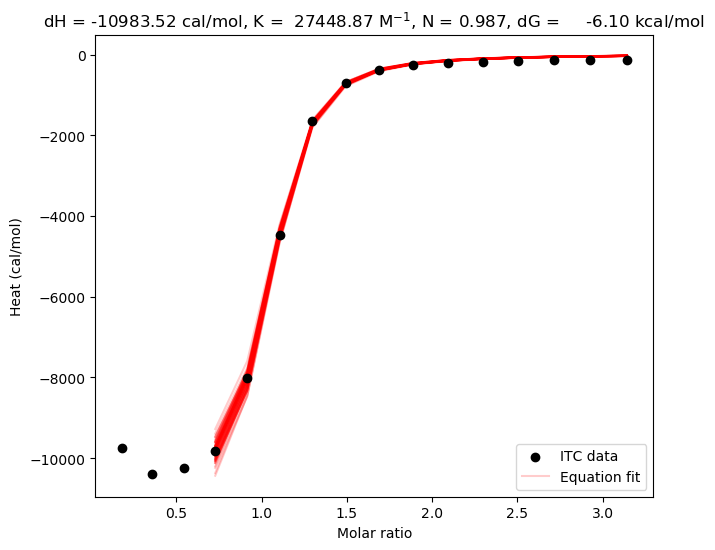
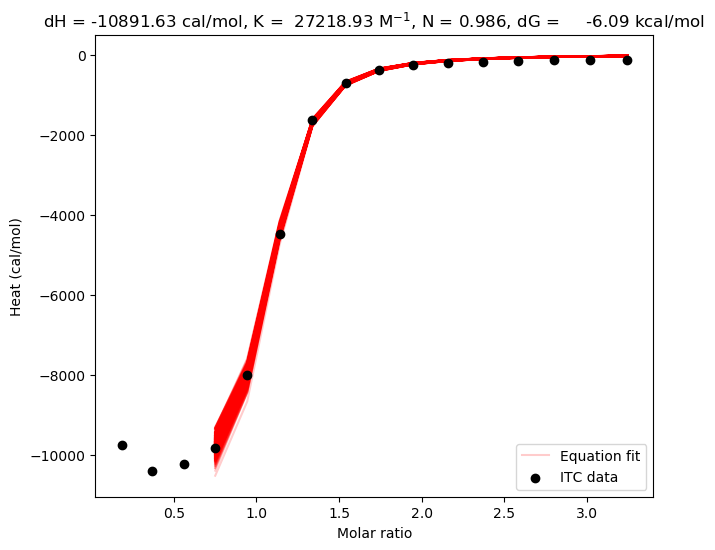
Requested changes

diff --git a/itc_fit.py b/itc_fit.py
@@ -47,7 +47,7 @@ def plot(XM, ITC, vardQ, name, dH, K, N, dG):
     fig, ax = plt.subplots(1, figsize=(6 * 1.2, 6))
     ax.scatter(XM[0, 1:] / XM[1, 1:], ITC, c="k", label="ITC data")
     for index, dQ in enumerate(vardQ.T):
-        ax.errorbar(
+        ax.plot(
             XM[0, 1+skip:] / XM[1, 1+skip:],
             dQ,
             c="r",
@@ -90,7 +90,8 @@ def fit(XMa, dH, K, N):
         )
 
         # Change in heat normalized by amount of injectant
-        # Similar to equation 10
+        # Similar to equation 10 except for the normalization factor dV*X0.
+        # Now the unit is cal/mol; same unit as for exp_dQ_normalized
         dQ[i] = (Q[i] + (dV[i - 1] / V0) * ((Q[i] + Q[i - 1]) / 2) - Q[i - 1]) / (
             dV[i - 1] * X0
         )
@@ -105,7 +106,7 @@ def bootstrap(dQ, dV, temperature, cycles=100):
     # Increase the number of bootstrapping runs by 10 percent. We delete the bad fits afterwards and want to fill up
     # the array so that we always use the same number of bootstrapping cycles
     realcycles = cycles
-    cycles = int(cycles * 1.1)
+    cycles = int(cycles * 1.3)
 
     # All variables which are different between different cycles of the bootstrapping process and stored  start with a
     # leading 'bootstrap_'
@@ -115,10 +116,11 @@ def bootstrap(dQ, dV, temperature, cycles=100):
     bootstrap_N = np.zeros([cycles])
     bootstrap_SS = np.zeros([cycles])
     # We are not fitting the first 'skip' elements. Therefore the array of fitted dQ is smaller. 
-    # As we are only fitting the differences we can ignore the first skip elements in the fitting easily 
+    # As we are only fitting the differences we can ignore the first skip elements in the fitting easily
+    # For every cycle we are storing the full set of calculate dQ values
     bootstrap_dQ = np.zeros([len(dQ)-skip, cycles])
     #print(V0)
-    for n in tqdm(range(cycles)):
+    for cycle in tqdm(range(cycles)):
         # Initial Guesses
         initial_guess = np.zeros(3)  # Guess Array
         initial_guess[0] = -1000.0  # Guess dH
@@ -182,24 +184,24 @@ def bootstrap(dQ, dV, temperature, cycles=100):
         SumSqr = 0.0
         for i in range(skip,len(dQ)):
             SumSqr += (exp_dQ_normalized[i] - fitdQ[i-skip]) ** 2
-            #bootstrap_heat[i-skip, n] = fitdQ[i-skip]
+            #bootstrap_heat[i-skip, cycle] = fitdQ[i-skip]
 
-        bootstrap_dH[n] = dH
-        bootstrap_K[n] = K
-        bootstrap_N[n] = N
-        bootstrap_SS[n] = SumSqr
-        bootstrap_dQ[:, n] = fitdQ
+        bootstrap_dH[cycle] = dH
+        bootstrap_K[cycle] = K
+        bootstrap_N[cycle] = N
+        bootstrap_SS[cycle] = SumSqr
+        bootstrap_dQ[:, cycle] = fitdQ
 
     # Reject all values which are over a threshold; definition is arbitrary.
-    threshold = 1 * bootstrap_SS.mean() + 5.0 * np.sqrt(bootstrap_SS.std())
-    for n in range(cycles - 1, -1, -1):
-        if bootstrap_SS[n] > threshold:
-            # print('Rejecting cycle number {}'.format(n))
-            bootstrap_dH = np.delete(bootstrap_dH, n)
-            bootstrap_K = np.delete(bootstrap_K, n)
-            bootstrap_N = np.delete(bootstrap_N, n)
-            bootstrap_SS = np.delete(bootstrap_SS, n)
-            bootstrap_dQ = np.delete(bootstrap_dQ, n, 1)
+    threshold = 1 * bootstrap_SS.mean() + 7.0 * np.sqrt(bootstrap_SS.std())
+    for cycle in range(cycles - 1, -1, -1):
+        if bootstrap_SS[cycle] > threshold:
+            #print('Rejecting cycle number {}'.format(cycle))
+            bootstrap_dH = np.delete(bootstrap_dH, cycle)
+            bootstrap_K = np.delete(bootstrap_K, cycle)
+            bootstrap_N = np.delete(bootstrap_N, cycle)
+            bootstrap_SS = np.delete(bootstrap_SS, cycle)
+            bootstrap_dQ = np.delete(bootstrap_dQ, cycle, 1)
     # Only use number of bootstrapping cycles defined in the main program.
     # print(realcycles)
     bootstrap_dH = bootstrap_dH[:realcycles]
@@ -313,7 +315,7 @@ if __name__ == "__main__":
     #    print(f"{'New cell volume = ':<20} {V0:5.7f} L")
 
     # dQ and XM include the complete data from the ITC output file.
-    vardQ, XM, dH, K, N, dG, dG_sem = bootstrap(dQ, dV, temperature, cycles=100)
+    vardQ, XM, dH, K, N, dG, dG_sem = bootstrap(dQ, dV, temperature, cycles=1000)
 
     report(
         V0,
